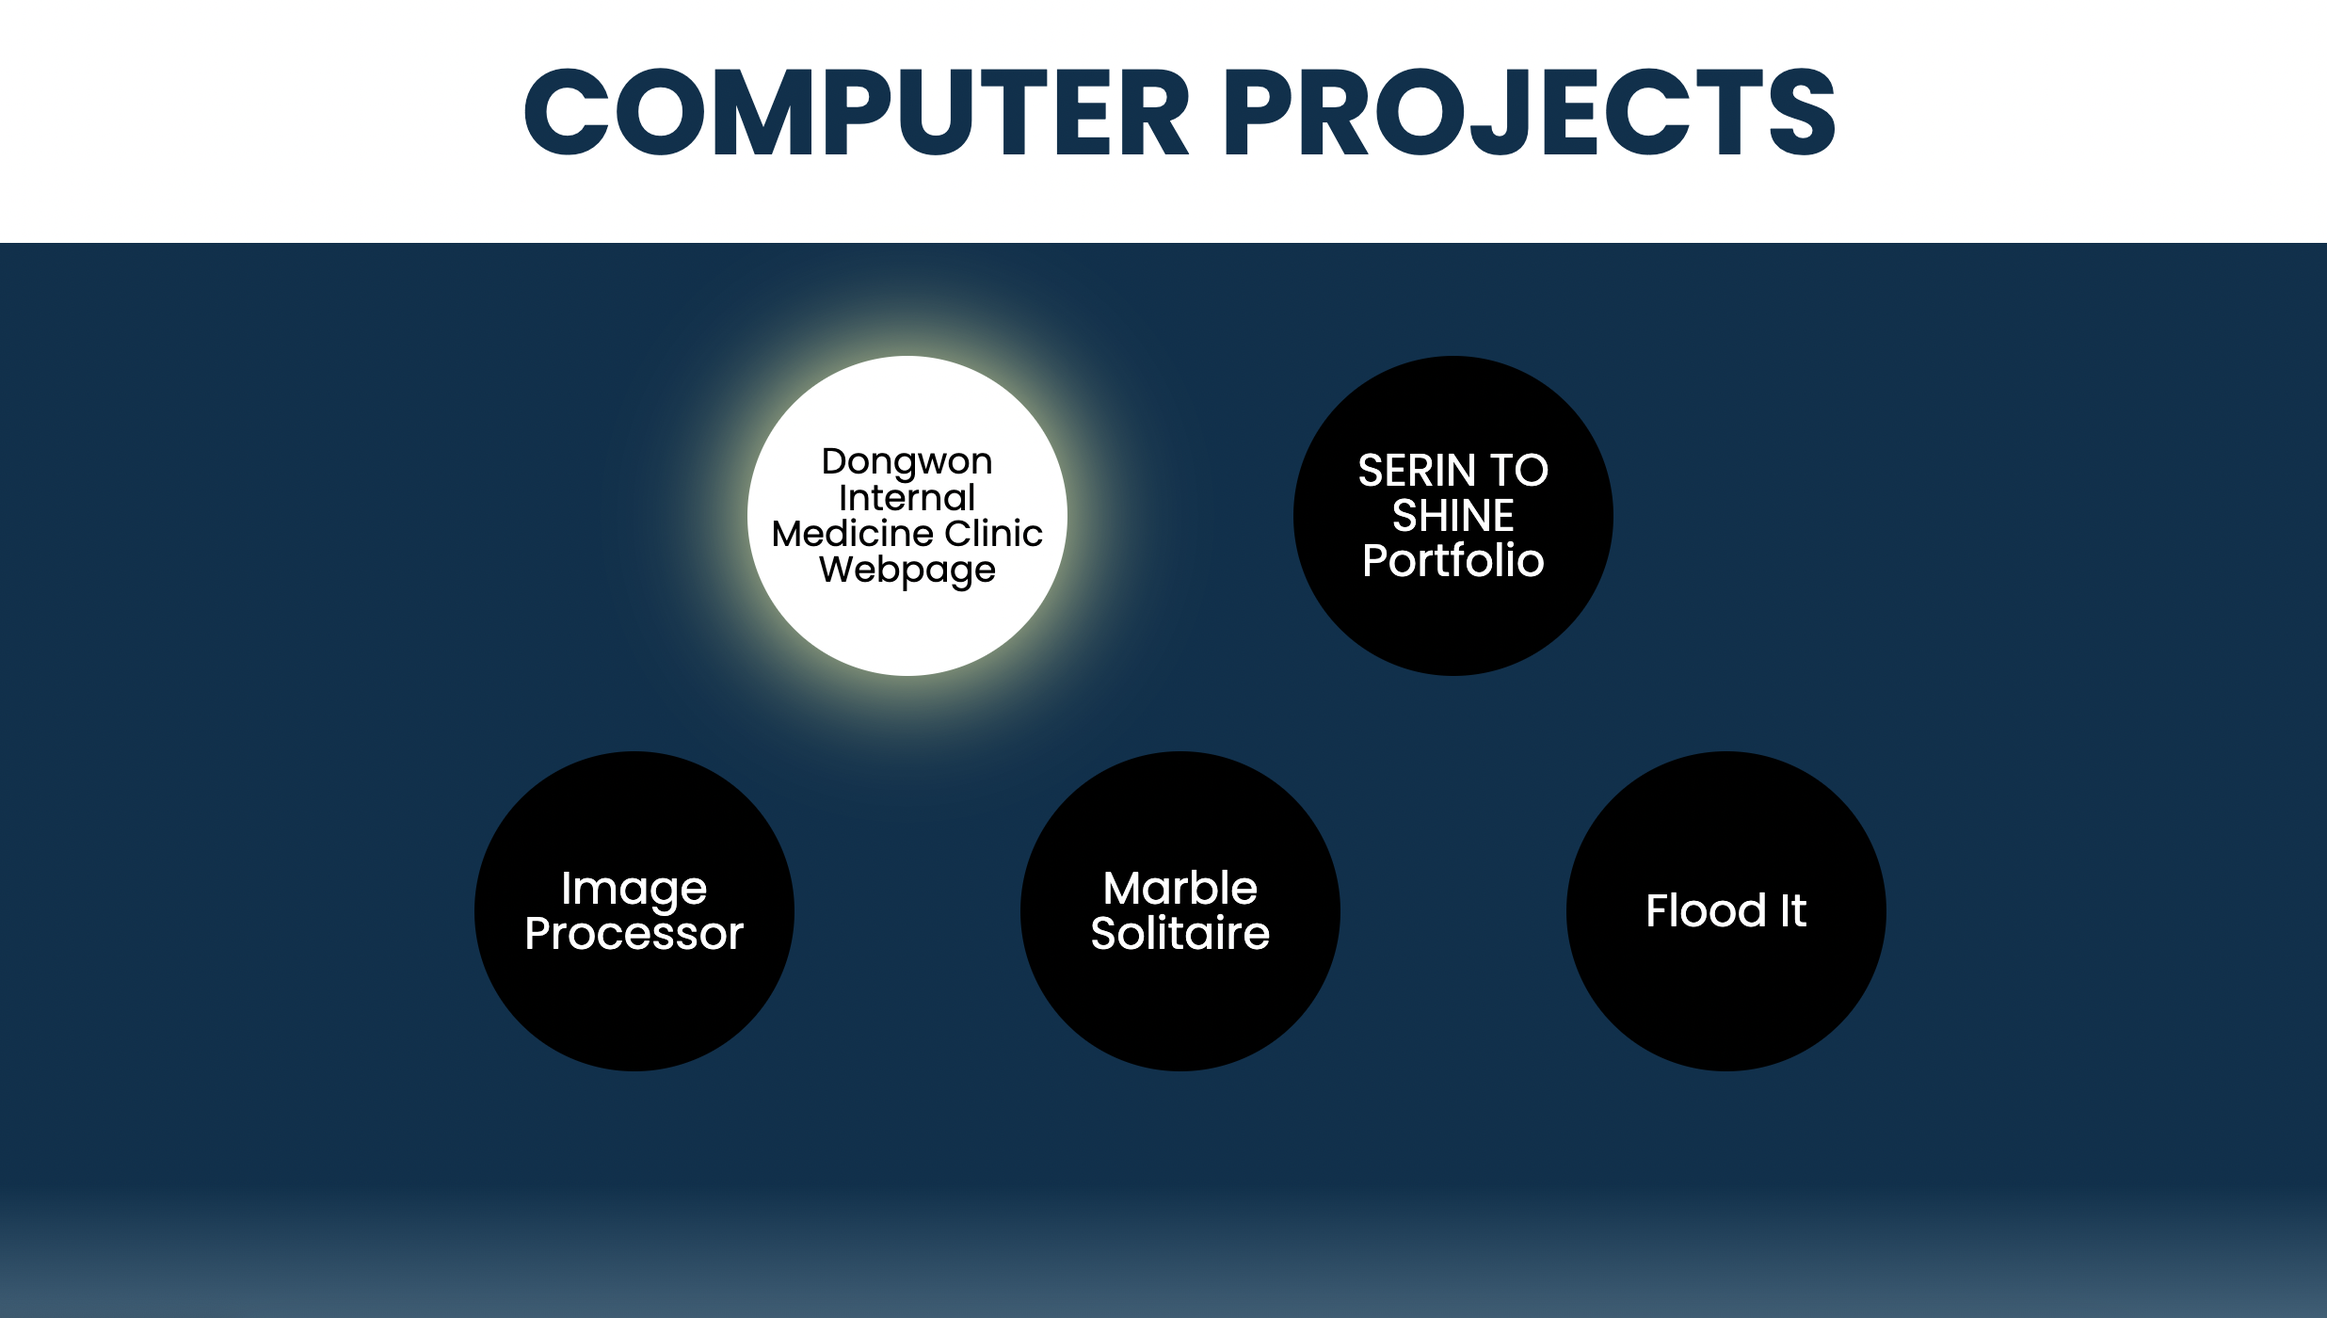
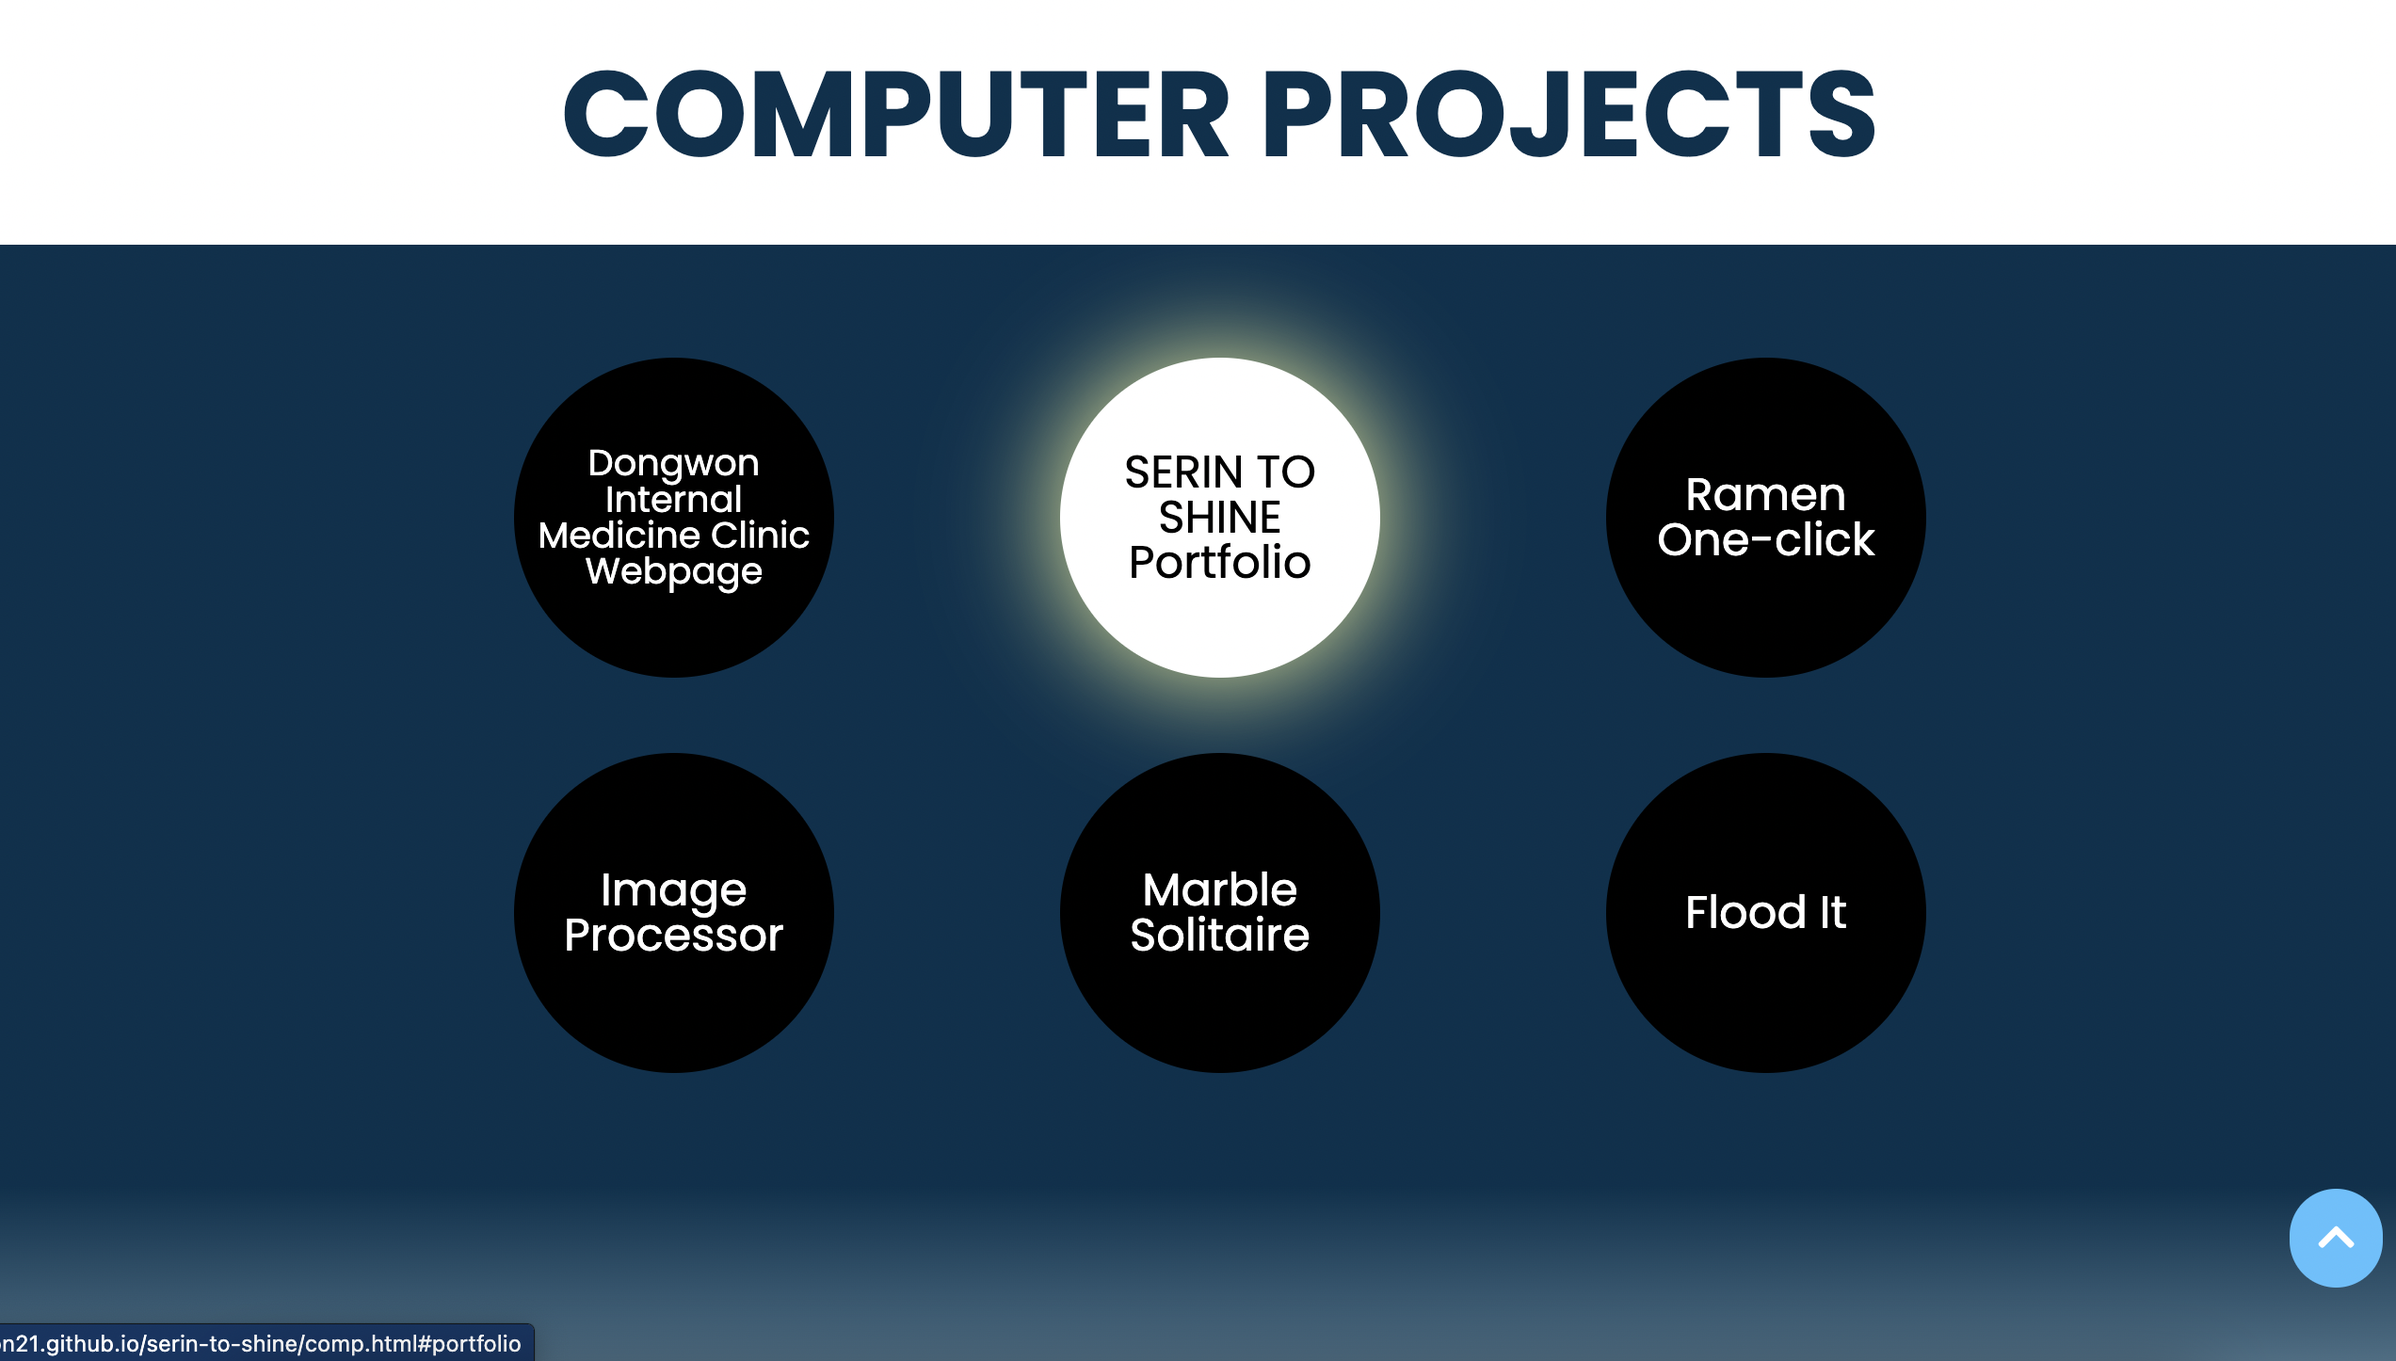
Add files via upload

diff --git a/comp.html b/comp.html
@@ -97,8 +97,8 @@
                 <div class="gallery-set">
                     <div class="popup"></div>
                     <div class="slide">
-                        <div><img src="/image/comp/dongwon-1.png" alt="dongwon-1" width="500px" /></div>
-                        <div><img src="image/comp/dongwon-2.png" alt="dongwon-2" width="500px" /></div>
+                        <div><img src="image/comp/dongwon-1.png" width="500px" /></div>
+                        <div><img src="image/comp/dongwon-2.png" width="500px" /></div>
                     </div>
                     <div class="slide-button">
                         <i class="fa fa-chevron-left slide-button slide-left"></i>
@@ -130,11 +130,11 @@
                 </div>
                 <div class="right-col pad-right">
                     <p class="description">
-                        I self-taught HTML, CSS, and a bit of Javascript to build my own portfolio. After making the wireframe on Figma, it was time to build the responsive webpage. As I had only been coding using Java, it was my first time working on a project that resembled front-end software development.<br>
-                        I first started learning HTML and CSS by watching YouTube tutorials. Then over the winter break, I spent my time learning more deeply about responsive web design and modified a huge portion of the portfolio that I'd had so far.<br>
-                        I also implemented a bit of Javascript. For instance, I used slick.js to display my computer project images more neatly. I also used queryselector for making a modal.<br>
+                        I self-taught HTML, CSS, and a bit of Javascript to build my own portfolio. After making the wireframe on Figma, it was time to build the responsive webpage. It was my first time working on a project that resembled front-end software development.<br>
+                        I first started learning HTML and CSS by watching YouTube tutorials. Then over the winter break, I spent my time learning more deeply about responsive web design and modified a huge portion of the portfolio that I'd had by that point. For instance, I attempted to build donut graphs without relying on an external library.<br>
+                        I also implemented a bit of Javascript; I used queryselector to make a modal. I tried using a jQuery library as well (slick.js).<br>
                         By producing my portfolio, I became more interested in front-end work.<br>
-                        I will continue flourishing my portfolio whenever I make a new significant footprint on my passion.
+                        I will continue flourishing my portfolio whenever I make a new significant footprint.
                     </p>
                 </div>
             </div>
@@ -142,8 +142,9 @@
                 <div class="gallery-set">
                     <div class="popup"></div>
                     <div class="slide">
-                        <div><img src="/image/comp/portfolio-1.png" width="500px" /></div>
-                        <div><img src="image/comp/portfolio-2.png" width="500px" /></div>
+                        <div><img src="image/comp/portfolio-1.png" alt="portfolio screenshot 1" width="500px" /></div>
+                        <div><img src="image/comp/portfolio-2.png" alt="portfolio screenshot 2" width="500px" /></div>
+                        <div><img src="image/comp/portfolio-3.png" alt="portfolio screenshot 3" width="500px" /></div>
                     </div>
                     <div class="slide-button">
                         <i class="fa fa-chevron-left slide-button slide-left"></i>
@@ -185,10 +186,10 @@
                 <div class="gallery-set">
                     <div class="popup"></div>
                     <div class="slide">
-                        <div><img src="/image/comp/ramen-1.jpeg" width="500px" /></div>
-                        <div><img src="/image/comp/ramen-2.jpeg" width="500px" /></div>
-                        <div><img src="/image/comp/ramen-3.jpeg" width="500px" /></div>
-                        <div><img src="/image/comp/ramen-4.jpeg" width="500px" /></div>
+                        <div><img src="image/comp/ramen-1.jpeg" alt="Ramen One-click ER Diagram" width="500px" /></div>
+                        <div><img src="image/comp/ramen-2.jpeg" alt="Ramen One-clic Relational Model" width="500px" /></div>
+                        <div><img src="image/comp/ramen-3.jpeg" alt="Ramen One-clic AppSmith Screenshot 1" width="500px" /></div>
+                        <div><img src="image/comp/ramen-4.jpeg" alt="Ramen One-clic AppSmith Screenshot 2" width="500px" /></div>
                     </div>
                     <div class="slide-button">
                         <i class="fa fa-chevron-left slide-button slide-left"></i>
@@ -230,10 +231,10 @@
                 <div class="gallery-set">
                     <div class="popup"></div>
                     <div class="slide">
-                        <div><img src="/image/comp/image-1.png" width="500px" /></div>
-                        <div><img src="/image/comp/image-2.png" width="500px" /></div>
-                        <div><img src="/image/comp/image-3.png" width="500px" /></div>
-                        <div><img src="/image/comp/image-4.png" width="500px" /></div>
+                        <div><img src="image/comp/image-1.png" alt="Image Processor Screenshot 1" width="500px" /></div>
+                        <div><img src="image/comp/image-2.png" alt="Image Processor Screenshot 2" width="500px" /></div>
+                        <div><img src="image/comp/image-3.png" alt="Image Processor Screenshot 3" width="500px" /></div>
+                        <div><img src="image/comp/image-4.png" alt="Image Processor Screenshot 4" width="500px" /></div>
                         
                     </div>
                     <div class="slide-button">
@@ -276,11 +277,11 @@
                 <div class="gallery-set">
                     <div class="popup"></div>
                     <div class="slide">
-                        <div><img src="/image/comp/marble-1.png" width="500px" /></div>
-                        <div><img src="/image/comp/marble-2.png" width="500px" /></div>
-                        <div><img src="/image/comp/marble-3.png" width="500px" /></div>
-                        <div><img src="/image/comp/marble-4.png" width="500px" /></div>
-                        <div><img src="/image/comp/marble-5.png" width="500px" /></div>
+                        <div><img src="image/comp/marble-1.png" alt="English Solitaire Screenshot" width="500px" /></div>
+                        <div><img src="image/comp/marble-2.png" alt="European Solitaire Screenshot 1" width="500px" /></div>
+                        <div><img src="image/comp/marble-3.png" alt="European Solitaire Screenshot 2" width="500px" /></div>
+                        <div><img src="image/comp/marble-4.png" alt="Triangular Solitaire Screenshot 1" width="500px" /></div>
+                        <div><img src="image/comp/marble-5.png" alt="Triangular Solitaire Screenshot 2" width="500px" /></div>
                     </div>
                     <div class="slide-button">
                         <i class="fa fa-chevron-left slide-button slide-left"></i>
@@ -322,9 +323,9 @@
                 <div class="gallery-set">
                     <div class="popup"></div>
                     <div class="slide">
-                        <div><img src="/image/comp/flood-1.jpeg" width="500px" /></div>
-                        <div><img src="/image/comp/flood-2.jpeg" width="500px" /></div>
-                        <div><img src="/image/comp/flood-3.jpeg" width="500px" /></div>
+                        <div><img src="image/comp/flood-1.jpeg" alt="FloodIt Screnshot 1" width="500px" /></div>
+                        <div><img src="image/comp/flood-2.jpeg" alt="FloodIt Screnshot 2" width="500px" /></div>
+                        <div><img src="image/comp/flood-3.jpeg" alt="FloodIt Screnshot 3" width="500px" /></div>
                     </div>
                     <div class="slide-button">
                         <i class="fa fa-chevron-left slide-button slide-left"></i>

diff --git a/index.html b/index.html
@@ -12,7 +12,7 @@
 
 <body>
     <header>
-        <h2 class="main_title">Serin to Shine</h2>
+        <h2 class="main_title uppercase">Serin to Shine</h2>
     </header>
     <section class="profile con_top_pd con_bottom_pd">
         <div class="container">
@@ -43,7 +43,7 @@
             <ul class="about-me-education">
                 <ul class="about-me">
                     <li>
-                        <h2 class="bold900 navy-txt con_bottom_pd">ABOUT ME</h2>
+                        <h2 class="bold900 navy-txt uppercase con_bottom_pd">About Me</h2>
                         <h3 class="semibold800">Serin Jeon</h3>
                         <p class="medium700">March 14, 2002</p>
                         <p class="medium700">(857) 210 - 5203</p>
@@ -65,7 +65,7 @@
                 </ul>
                 <ul class="education">
                     <li>
-                        <h2 class="bold900 navy-txt con_bottom_pd">EDUCATION</h2>
+                        <h2 class="bold900 navy-txt uppercase con_bottom_pd">Education</h2>
                     <li>
                         <h3 class="semibold800">Northeastern University</h3>
                         <h3 class="semibold800">Boston, MA</h3>
@@ -82,7 +82,7 @@
             </ul>
             <ul class="experience">
                 <li>
-                    <h2 class="bold900 navy-txt con_bottom_pd">EXPERIENCE</h2>
+                    <h2 class="bold900 navy-txt uppercase con_bottom_pd">Experience</h2>
                 <li>
                     <h3 class="semibold800">Fundamentals of Computer Science 1 Teaching Asisstant</h3>
                     <p class="medium700">Northeastern University</p>
@@ -123,32 +123,30 @@
                     </div>
                 </li>
             </ul>
-            </li>
         </ul>
-        <ul class="comp_skill con_top_pd con_bottom_pd">
-            <h2 class="bold900 navy-txt con_bottom_pd">COMPUTER SKILLS</h2>
-            <ul class="flexing">
-                <li>
-                <h3 class="semibold800">Photoshop</h3>
-                <h3 class="semibold800">InDesign</h3>
-                <h3 class="semibold800">Premiere Pro</h3>
-                <h3 class="semibold800">IntelliJ - Java</h3>
-                <h3 class="semibold800">Eclipse - Java</h3>
-                <h3 class="semibold800">DrRacket</h3>
-                <h3 class="semibold800">Figma</h3>
-                <h3 class="semibold800">R Studio - R Notebook</h3>
-                <h3 class="semibold800">R Studio - R Script</h3>
-                <h3 class="semibold800">DataGrip - SQLite</h3>
-                <h3 class="semibold800">VSCode - HTML</h3>
-                <h3 class="semibold800">VSCode - CSS</h3>
-                <h3 class="semibold800">DataGrip - MySQL</h3>
-                <h3 class="semibold800">VSCode - Python</h3>
-            </li>
-            <li class="graph">
-                <img src="image/Bar graph.svg" alt="skill graph" width="400px">
-            </li>
-        </ul>
-        </ul>
+        <h2 class="bold900 navy-txt uppercase con_bottom_pd con_top_pd">Computer Skill</h2>
+    </section>
+    <section class="cpu-skill-new con_bottom_pd">
+        <div class="row">
+            <div class="donut" id="Java"></div>
+            <div class="donut" id="HTML"></div>
+            <div class="donut" id="CSS"></div>
+            <div class="donut" id="R"></div>
+            <div class="donut" id="Python"></div>
+        </div>
+        <div class="row">
+            <div class="donut" id="DrRacket"></div>
+            <div class="donut" id="MySQL"></div>
+            <div class="donut" id="Docker"></div>
+            <div class="donut" id="Javascript"></div>
+        </div>
+        <div class="row non-cpu">
+            <div class="donut" id="Adobe Photoshop"></div>
+            <div class="donut" id="Adobe InDesign"></div>
+            <div class="donut" id="Adobe Premiere Pro"></div>
+            <div class="donut" id="Adobe Illustrator"></div>
+            <div class="donut" id="Figma"></div>
+        </div>
     </section>
     <section class="clickToSee con_top_pd con_bottom_pd">
         <h2 class="huge_title">Click to see what I have done on:</h2>

diff --git a/css/main.css b/css/main.css
@@ -101,33 +101,25 @@ header {
 
 
 /* Click to see */
-.clickToSee{
+.clickToSee {
     text-align: center;
     background-color: var(--lightblue-c);
 }
-.CS_Media{
+.CS_Media {
     display:flex;
     justify-content: space-between;
 }
 .computer_science {
     background: url(../image/Computer\ Science.jpg);
-    background-size: cover;
-    width: 49.45vw;
-    height: 510px;
-    display: flex;
-    flex-direction: row;
-    justify-content: center;
-    align-items: center;
-    padding: 0px;
-    gap: 10px;
+}
+.media{
+    background: url(../image/Media.jpg);
 }
 .computer_science:hover, .media:hover {
     opacity: 60%;
     transition-duration: 0.2s;
 }
-
-.media{
-    background: url(../image/Media.jpg);
+.computer_science, .media {
     background-size: cover;
     width: 49.45vw;
     height: 510px;
@@ -137,4 +129,59 @@ header {
     align-items: center;
     padding: 0px;
     gap: 10px;
+}
+
+
+/* for new cpu skill display */
+.cpu-skill-new {
+    width: 100vw;
+}
+.cpu-skill-new .row {
+    display: flex;
+    justify-content: center;
+    flex-wrap: wrap;
+    gap: 40px;
+    padding-top: 2%;
+    padding-bottom: 2%;
+}
+.donut {
+    width: 125px;
+    height: 125px;
+    border-radius: 50%;
+    position: relative;
+    text-align: center;
+    background: conic-gradient(var(--skyblue-c) 0% 72%, var(--gray-c) 72% 100%);
+}
+.donut::before {
+    color: var(--navy-c);
+    width: 70%;
+    height: 70%;
+    background: white;
+    border-radius: 50%;
+    position: absolute;
+    left: 15%;
+    top: 15%;
+    display: flex;
+    flex-direction: column;
+    justify-content: center;
+    content: attr(id);
+    margin: auto;
+}
+.cpu-skill-new .row:last-of-type .donut {
+    background: conic-gradient(var(--brightblue-c) 0% 94%, var(--gray-c) 94% 100%);
+}
+.cpu-skill-new .row:last-of-type .donut:last-of-type {
+    background: conic-gradient(var(--brightblue-c) 0% 85%, var(--gray-c) 85% 100%);
+}
+#Java, #HTML, #CSS, #DrRacket {
+    background: conic-gradient(var(--skyblue-c) 0% 85%, var(--gray-c) 85% 100%);
+}
+#R, #MySQL {
+    background: conic-gradient(var(--skyblue-c) 0% 75%, var(--gray-c) 75% 100%);
+}
+#Python, #Docker {
+    background: conic-gradient(var(--skyblue-c) 0% 55%, var(--gray-c) 55% 100%);
+}
+#Javascript {
+    background: conic-gradient(var(--skyblue-c) 0% 40%, var(--gray-c) 40% 100%);
 }

diff --git a/css/common.css b/css/common.css
@@ -10,6 +10,7 @@
     --brightblue-c: #7DD8FF;
     --skyblue-c: #52C1FF;
     --navy-c: #00314D;
+    --gray-c: rgb(217,217,217);
 }
 html {
     font-family: 'Poppins', sans-serif;
@@ -73,7 +74,6 @@ button {
     font-weight: 700;
     font-size: calc(var(--base-unit)*3.333);
     line-height: 64px;
-    text-transform: uppercase;
 }
 
 .descript {
@@ -82,6 +82,9 @@ button {
     font-size: var(--base-unit);
     text-align: left;
     line-height: 35px;
+}
+.uppercase {
+    text-transform: uppercase;
 }
 
 /* Color */
